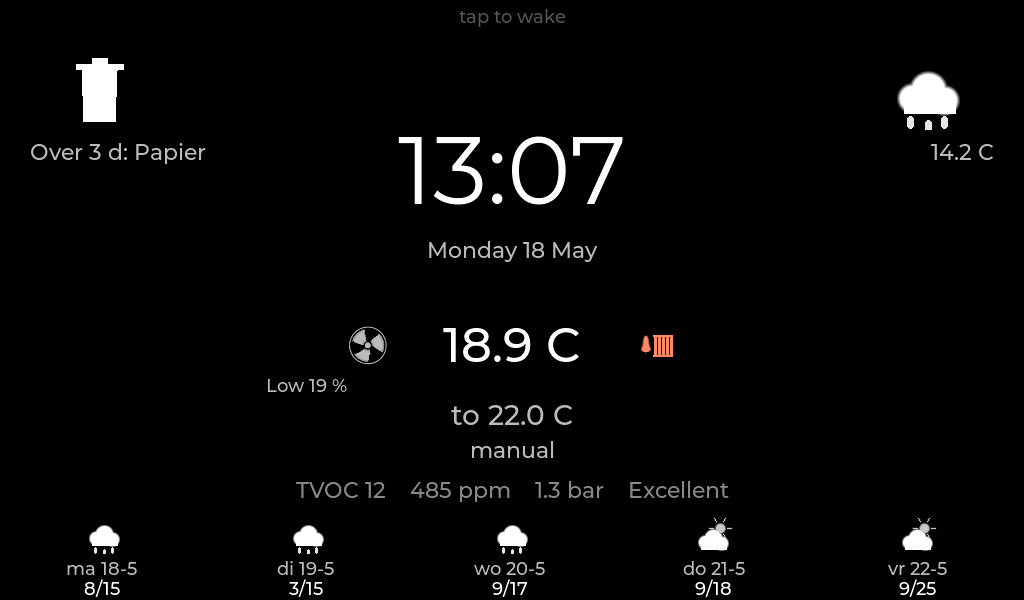
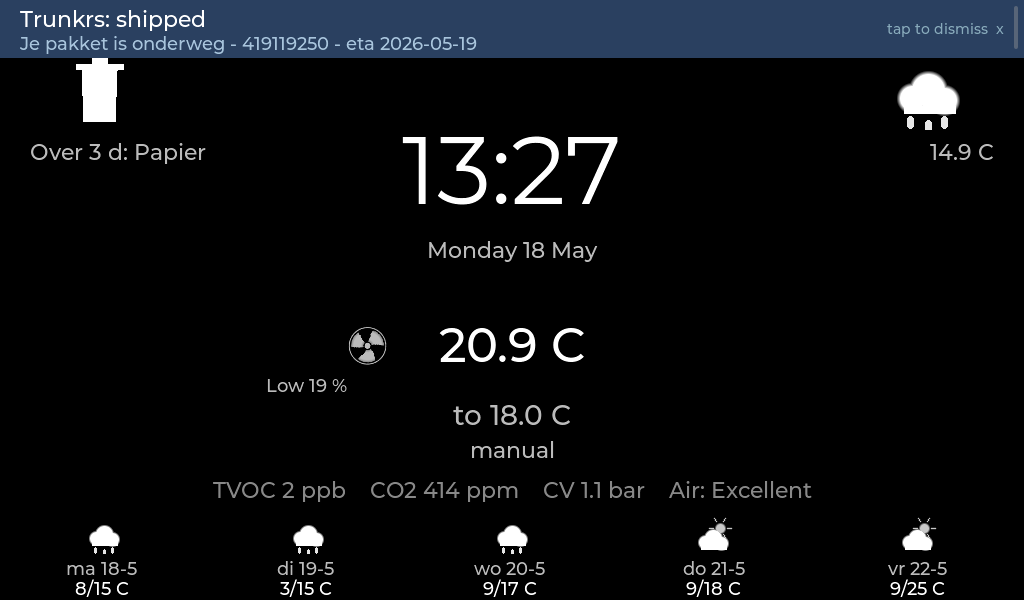
Dim screen polish + Clean-screen lock
- Dim metrics row gets meaningful labels: "TVOC N ppb", "CO2 N ppm",
  "CV N.N bar", "Air: <label>" — readable at a glance instead of just
  numbers
- Forecast strip on dim now suffixes temps with C ("8/15 C") so the
  numbers don't look like fractions
- New Settings tile "Clean" (LV_SYMBOL_EYE_CLOSE): full-black screen with
  a centred 30-second countdown that ignores all touch input, so the
  user can wipe the glass without triggering buttons. Pops itself back
  to settings on expiry
- Refresh dim.png screenshot to reflect the label changes

diff --git a/lvgl_ui_recovered/src/screen_settings.c b/lvgl_ui_recovered/src/screen_settings.c
@@ -1042,6 +1042,52 @@ static void open_otbridge_modal(lv_event_t * e) {
 
 static void on_back(lv_event_t * e) { (void)e; ui_pop(); }
 
+/* --------- Clean-screen overlay: 30 s timer that ignores all touch -------
+ * Loads a full-black screen with a single centred countdown so the user can
+ * wipe the glass without triggering buttons. The screen has zero event
+ * handlers — taps reach the LVGL input layer and find nothing actionable.
+ * Backlight stays at the current "active" level so the countdown stays
+ * readable; the LCD is 99% black anyway, which reads as "off". On expiry
+ * the screen pops itself back to settings. */
+static lv_obj_t *  g_clean_scr  = NULL;
+static lv_obj_t *  g_clean_lbl  = NULL;
+static lv_timer_t * g_clean_tmr = NULL;
+static int         g_clean_remaining = 0;
+
+static void clean_finish(void) {
+    if (g_clean_tmr) { lv_timer_del(g_clean_tmr); g_clean_tmr = NULL; }
+    if (g_clean_scr) {
+        lv_obj_t * dead = g_clean_scr;
+        g_clean_scr = NULL; g_clean_lbl = NULL;
+        ui_pop();
+        lv_obj_del_async(dead);
+    }
+}
+
+static void clean_tick(lv_timer_t * t) {
+    (void)t;
+    g_clean_remaining--;
+    if (g_clean_remaining <= 0) { clean_finish(); return; }
+    if (g_clean_lbl) lv_label_set_text_fmt(g_clean_lbl, "%d", g_clean_remaining);
+}
+
+static void open_clean_modal(lv_event_t * e) {
+    (void)e;
+    g_clean_remaining = 30;
+    g_clean_scr = lv_obj_create(NULL);
+    lv_obj_set_style_bg_color(g_clean_scr, lv_color_hex(0x000000), 0);
+    lv_obj_clear_flag(g_clean_scr, LV_OBJ_FLAG_SCROLLABLE);
+    /* No event_cb anywhere on this screen → touches do nothing. */
+    g_clean_lbl = lv_label_create(g_clean_scr);
+    lv_obj_set_style_text_color(g_clean_lbl, lv_color_hex(0xffffff), 0);
+    LV_FONT_DECLARE(lv_font_montserrat_96_custom);
+    lv_obj_set_style_text_font(g_clean_lbl, &lv_font_montserrat_96_custom, 0);
+    lv_label_set_text_fmt(g_clean_lbl, "%d", g_clean_remaining);
+    lv_obj_center(g_clean_lbl);
+    ui_push(g_clean_scr);
+    g_clean_tmr = lv_timer_create(clean_tick, 1000, NULL);
+}
+
 /* One category tile: icon (optional), big title, caption. */
 static void make_tile(int x, int y, const lv_img_dsc_t * icon, const char * sym,
                       const char * title, const char * caption, lv_event_cb_t cb) {
@@ -1451,6 +1497,8 @@ lv_obj_t * screen_settings_create(void) {
               "broker + topics", open_mqtt_modal);
     make_tile(x0 + 0*(308+gap), row3, NULL, LV_SYMBOL_LIST, "About",
               "status & diagnostics", open_about_modal);
+    make_tile(x0 + 1*(308+gap), row3, NULL, LV_SYMBOL_EYE_CLOSE, "Clean",
+              "30 s screen lock to wipe", open_clean_modal);
 
     return scr_root;
 }

diff --git a/lvgl_ui_recovered/src/screen_dim.c b/lvgl_ui_recovered/src/screen_dim.c
@@ -116,22 +116,22 @@ static void refresh_cb(lv_timer_t * t) {
            greyed row. Missing inputs collapse to "--" so the strip layout
            stays stable. AQ label is appended only when we actually have
            air-quality data to classify. */
-        char buf[160];
-        char tvoc[16] = "TVOC --";
-        char ppm[20]  = "-- ppm";
-        char bar[16]  = "-- bar";
+        char buf[200];
+        char tvoc[24] = "TVOC --";
+        char co2[24]  = "CO2 --";
+        char bar[24]  = "CV --";
         if (toon_state.tvoc)
-            snprintf(tvoc, sizeof tvoc, "TVOC %d", toon_state.tvoc);
+            snprintf(tvoc, sizeof tvoc, "TVOC %d ppb", toon_state.tvoc);
         if (toon_state.eco2)
-            snprintf(ppm, sizeof ppm, "%d ppm", toon_state.eco2);
+            snprintf(co2,  sizeof co2,  "CO2 %d ppm", toon_state.eco2);
         if (toon_state.water_pressure > 0.1f)
-            snprintf(bar, sizeof bar, "%.1f bar", toon_state.water_pressure);
+            snprintf(bar,  sizeof bar,  "CV %.1f bar", toon_state.water_pressure);
         const char * aql = air_quality_label(toon_state.eco2, toon_state.tvoc);
         if (*aql)
-            snprintf(buf, sizeof buf, "%s    %s    %s    %s",
-                     tvoc, ppm, bar, aql);
+            snprintf(buf, sizeof buf, "%s    %s    %s    Air: %s",
+                     tvoc, co2, bar, aql);
         else
-            snprintf(buf, sizeof buf, "%s    %s    %s", tvoc, ppm, bar);
+            snprintf(buf, sizeof buf, "%s    %s    %s", tvoc, co2, bar);
         lv_label_set_text(lbl_metrics, buf);
     }
 
@@ -210,7 +210,7 @@ static void refresh_cb(lv_timer_t * t) {
             const weather_day_t * d = &weather_state.days[i];
             lv_img_set_src(dim_fc_icon[i], weather_icon_for(d->icon));
             lv_label_set_text(dim_fc_day[i], d->day);
-            lv_label_set_text_fmt(dim_fc_temp[i], "%.0f/%.0f",
+            lv_label_set_text_fmt(dim_fc_temp[i], "%.0f/%.0f C",
                                   d->min_temp, d->max_temp);
             lv_obj_clear_flag(dim_fc_icon[i], LV_OBJ_FLAG_HIDDEN);
             lv_obj_clear_flag(dim_fc_day[i],  LV_OBJ_FLAG_HIDDEN);